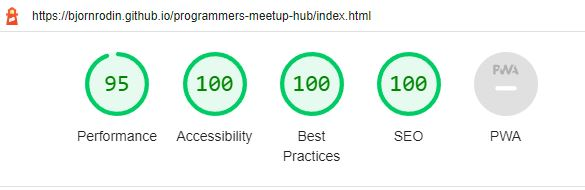
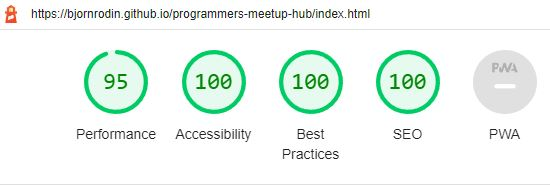
Add meta tag to remove warning in lighthouse testing

diff --git a/gallery.html b/gallery.html
@@ -9,6 +9,7 @@
         content="A meetup-hub for people interested in programming and want to discuss the subject with likeminded people.">
     <meta name="keywords"
         content="software development, frontend, backend, web development, international, meetup, programming, discussion">
+    <meta http-equiv="Permissions-Policy" content="interest-cohort=()">
 
     <link rel="stylesheet" href="assets/css/style.css">
     <title>Programmer Meetup-Hub</title>

diff --git a/index.html b/index.html
@@ -9,6 +9,7 @@
         content="A meetup-hub for people interested in programming and want to discuss the subject with likeminded people.">
     <meta name="keywords"
         content="software development, frontend, backend, web development, international, meetup, programming, discussion">
+    <meta http-equiv="Permissions-Policy" content="interest-cohort=()">
 
     <link rel="stylesheet" href="assets/css/style.css">
     <title>Programmer Meetup-Hub</title>

diff --git a/programming.html b/programming.html
@@ -9,6 +9,7 @@
         content="A meetup-hub for people interested in programming and want to discuss the subject with likeminded people.">
     <meta name="keywords"
         content="software development, frontend, backend, web development, international, meetup, programming, discussion">
+    <meta http-equiv="Permissions-Policy" content="interest-cohort=()">
 
     <link rel="stylesheet" href="assets/css/style.css">
     <title>Programmer Meetup-Hub</title>

diff --git a/signup.html b/signup.html
@@ -9,6 +9,7 @@
         content="A meetup-hub for people interested in programming and want to discuss the subject with likeminded people.">
     <meta name="keywords"
         content="software development, frontend, backend, web development, international, meetup, programming, discussion">
+    <meta http-equiv="Permissions-Policy" content="interest-cohort=()">
 
     <link rel="stylesheet" href="assets/css/style.css">
     <title>Programmer Meetup-Hub</title>

diff --git a/thank-you-message.html b/thank-you-message.html
@@ -9,6 +9,7 @@
         content="A meetup-hub for people interested in programming and want to discuss the subject with likeminded people.">
     <meta name="keywords"
         content="software development, frontend, backend, web development, international, meetup, programming, discussion">
+    <meta http-equiv="Permissions-Policy" content="interest-cohort=()">
 
     <link rel="stylesheet" href="assets/css/style.css">
     <title>Programmer Meetup-Hub</title>
